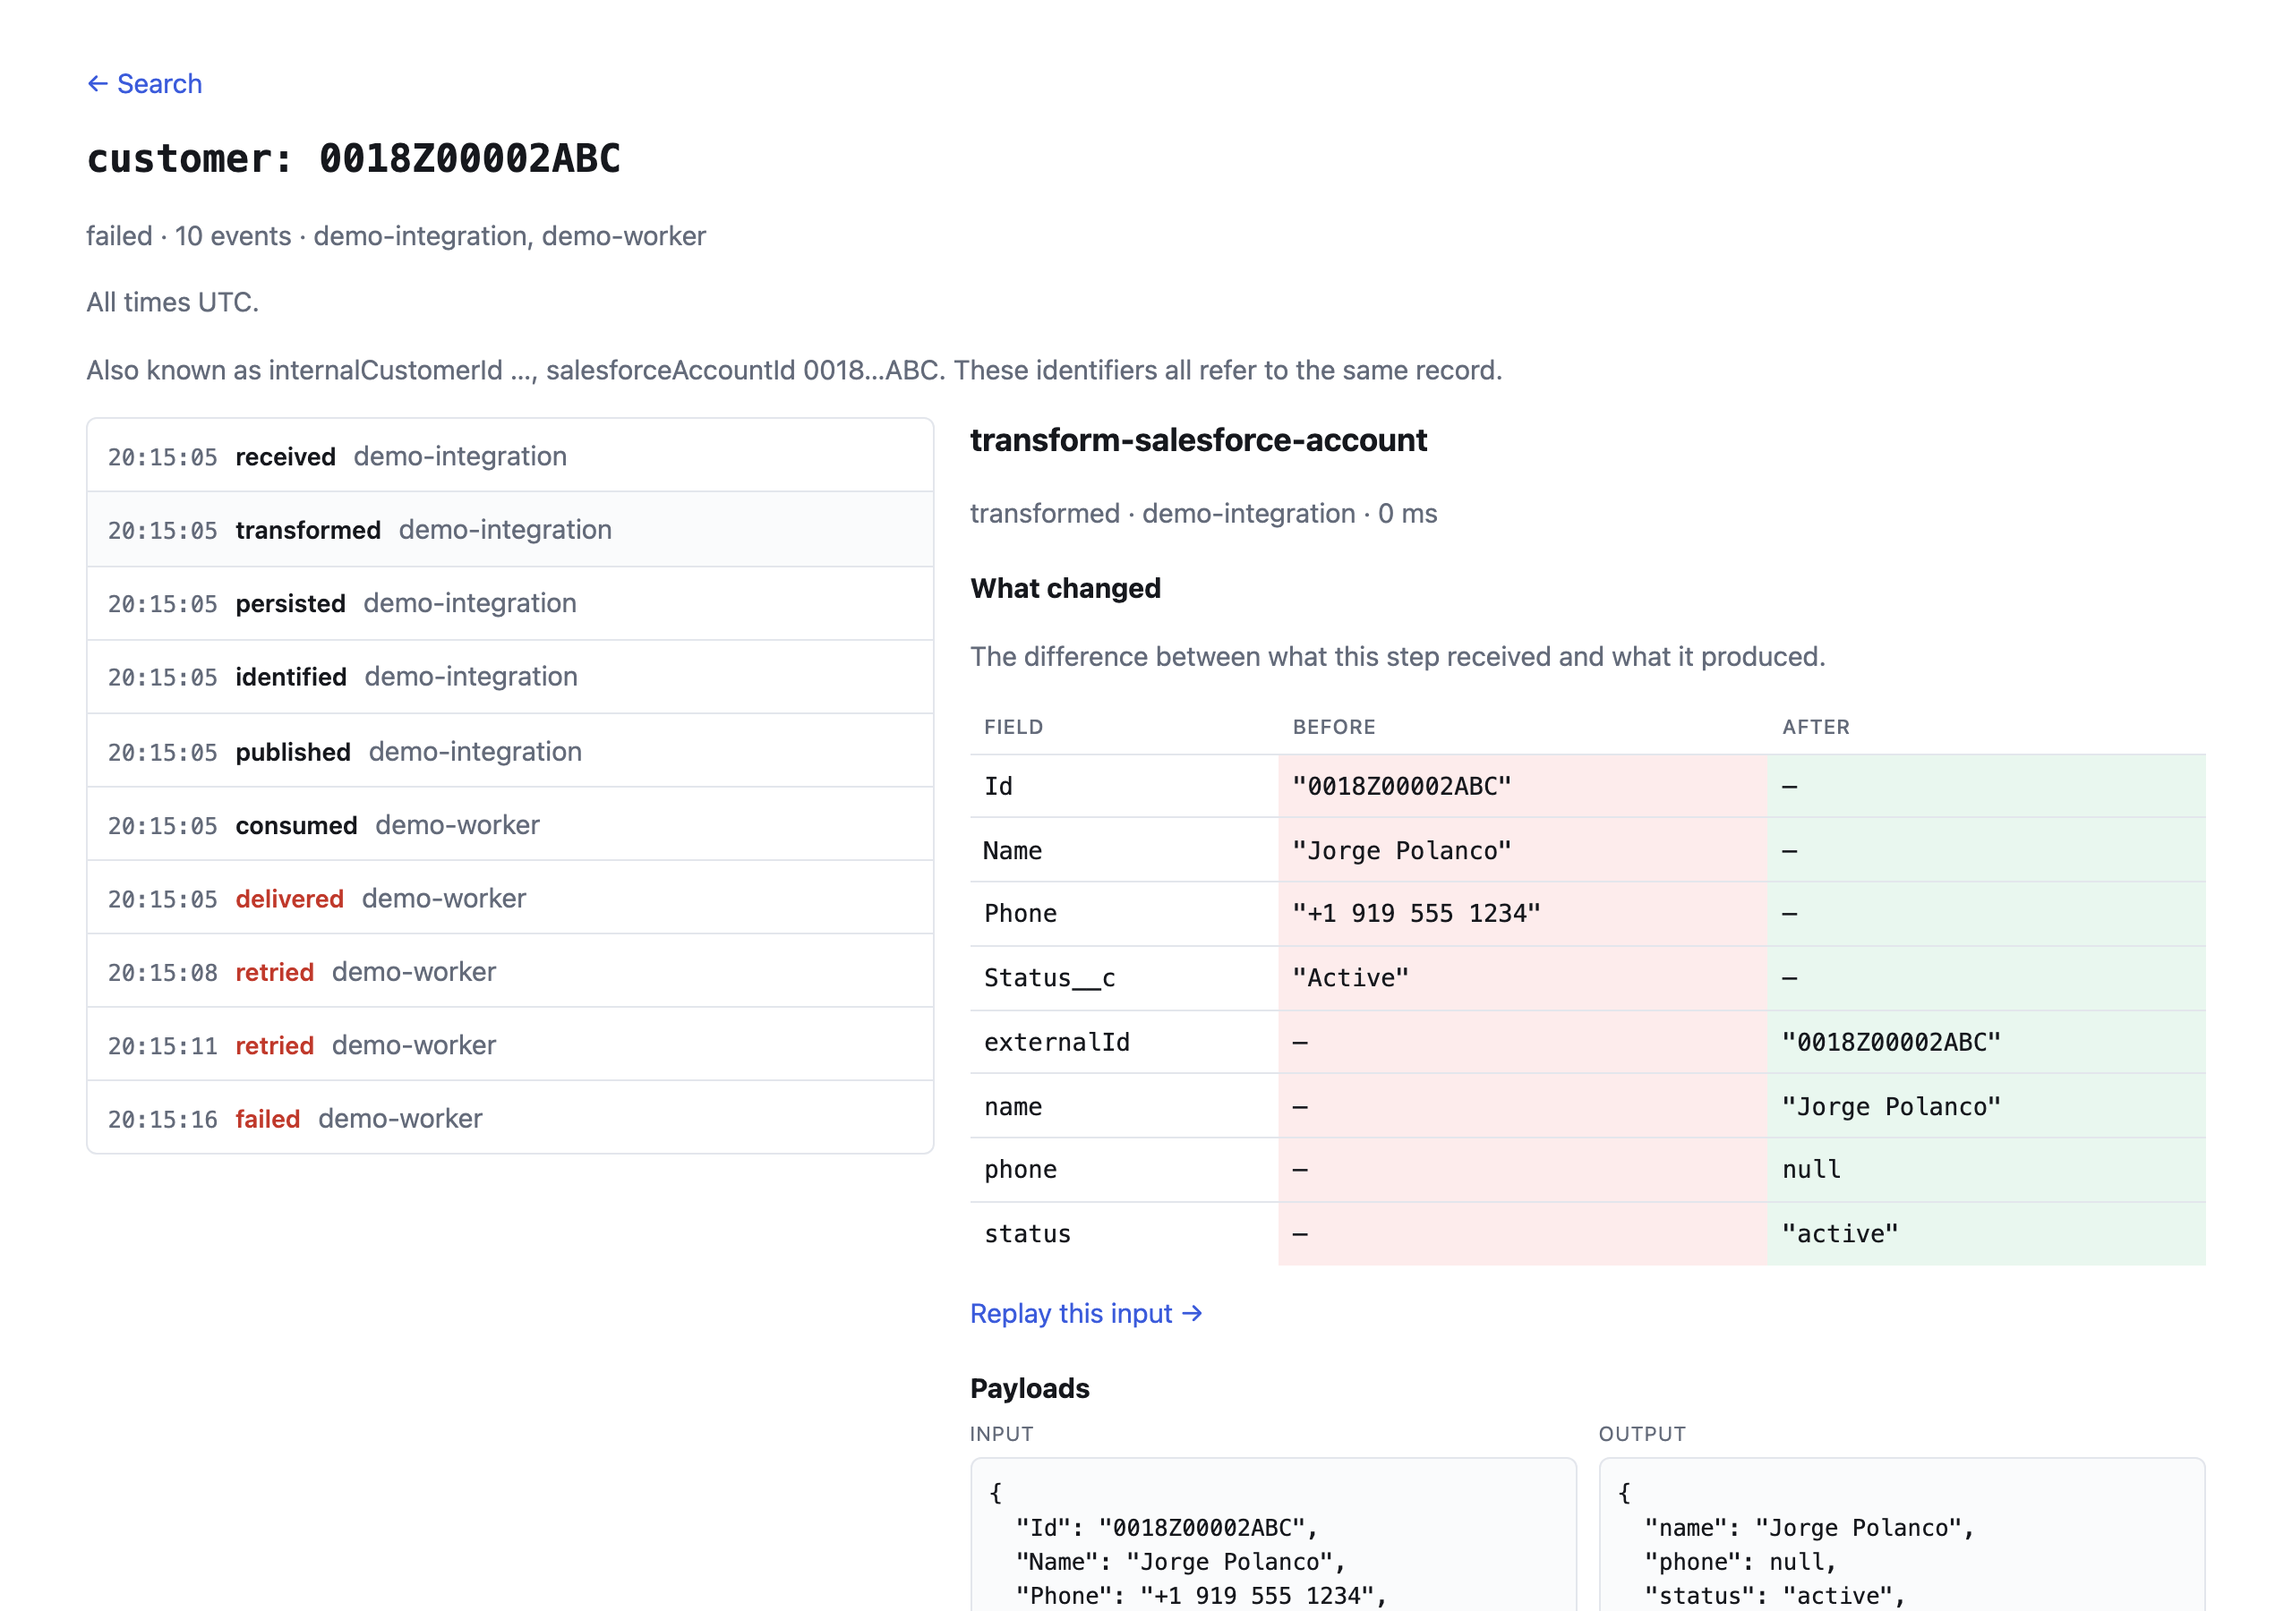
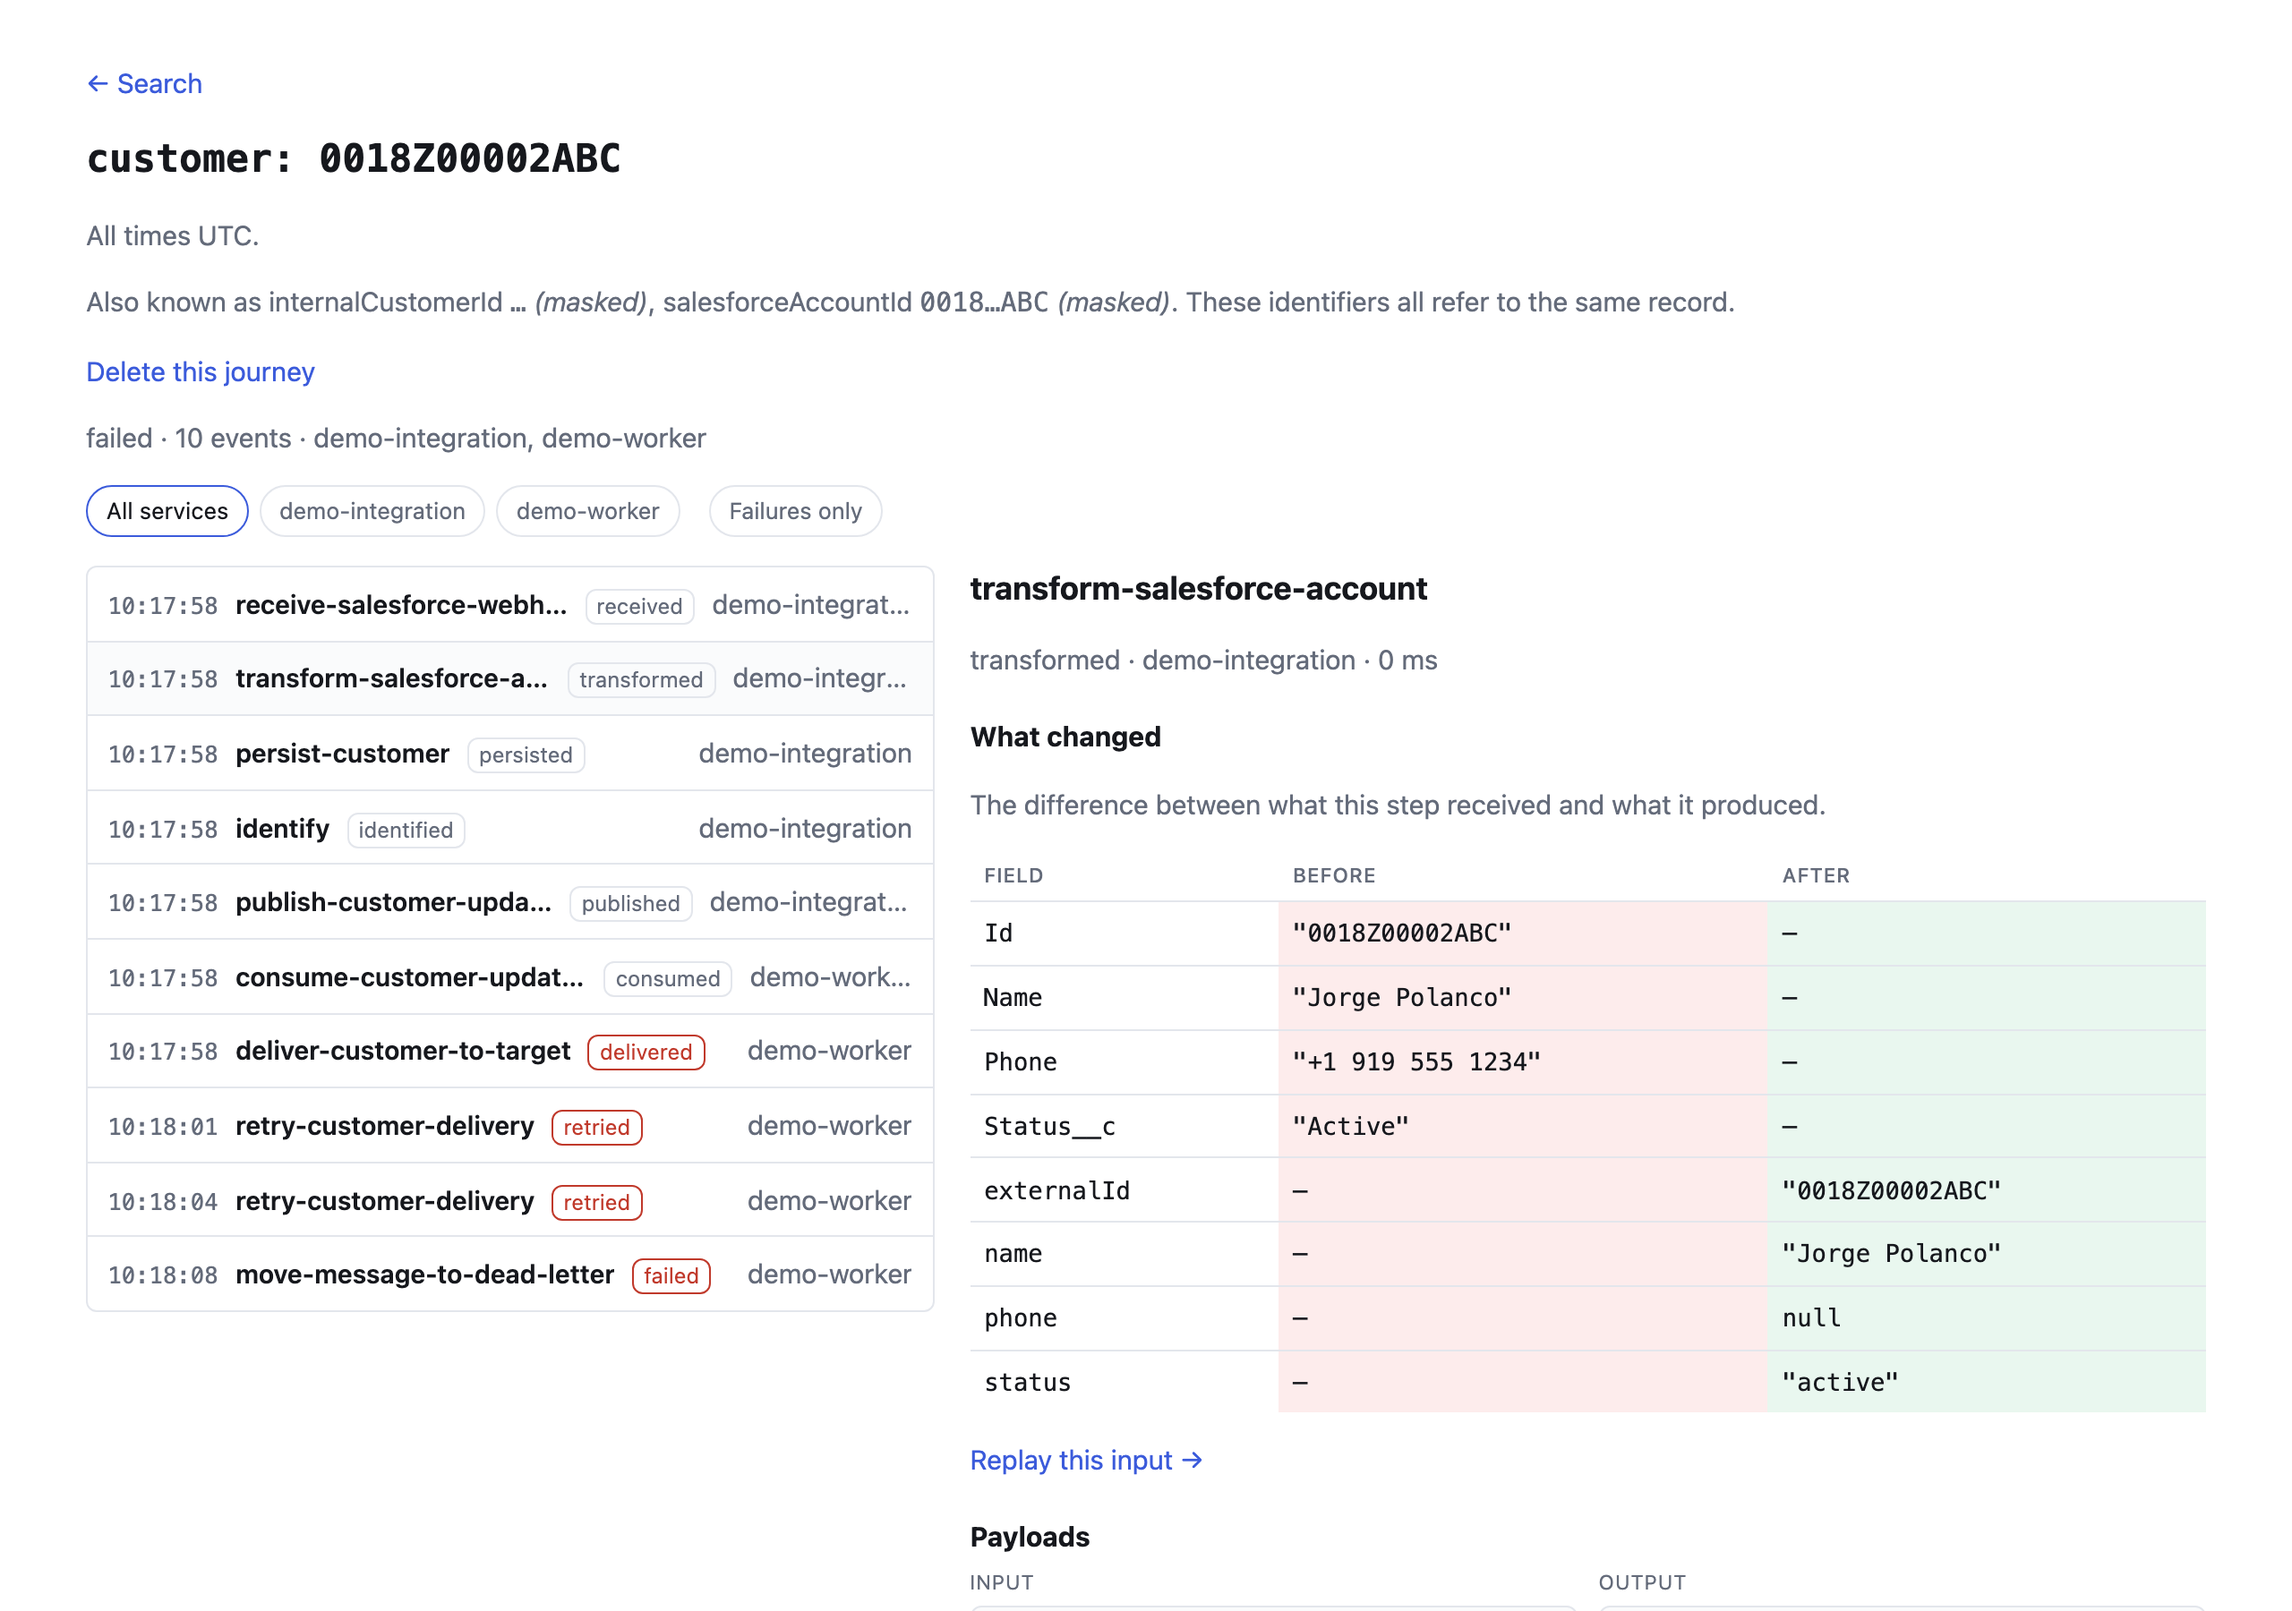
fix(web): keep a timeline row on one line, and regenerate the screenshots
With the step name first, a long name pushed the service onto a second
line. The row no longer wraps: the name and the service give way with an
ellipsis, the name keeps its full text as a title, and the service sits at
the end of the row. The README images are regenerated from the demo
journey with pnpm screenshots.

diff --git a/apps/web/app/components/TimelineList.tsx b/apps/web/app/components/TimelineList.tsx
@@ -96,7 +96,9 @@ export function TimelineList({
               <span className={event.hasError ? "step failed" : "step"}>{event.operation}</span>
             ) : (
               <>
-                <span className="step">{event.name}</span>
+                <span className="step" title={event.name}>
+                  {event.name}
+                </span>
                 <span
                   className={event.hasError ? "op failed" : "op"}
                   title={`operation: ${event.operation}`}
@@ -105,7 +107,7 @@ export function TimelineList({
                 </span>
               </>
             )}
-            <span className="muted">{event.service}</span>
+            <span className="muted service">{event.service}</span>
             {skewSeconds(event.eventTimestamp, event.receivedAt) > SKEW_THRESHOLD_SECONDS ? (
               <span
                 className="muted"

diff --git a/apps/web/app/globals.css b/apps/web/app/globals.css
@@ -222,7 +222,6 @@ button {
   align-items: baseline;
   padding: 0.55rem 0.7rem;
   color: var(--fg);
-  flex-wrap: wrap;
 }
 .timeline a:hover {
   text-decoration: none;
@@ -235,7 +234,21 @@ button {
 .step {
   font-weight: 600;
   font-size: 0.9rem;
-  overflow-wrap: anywhere;
+}
+/* One line per row: the name gives way first, and the service sits at the end. */
+.timeline a > * {
+  flex-shrink: 0;
+  white-space: nowrap;
+}
+.timeline a > .step,
+.timeline a > .service {
+  flex-shrink: 1;
+  min-width: 0;
+  overflow: hidden;
+  text-overflow: ellipsis;
+}
+.timeline a > .service {
+  margin-left: auto;
 }
 .step.failed {
   color: var(--failed);
